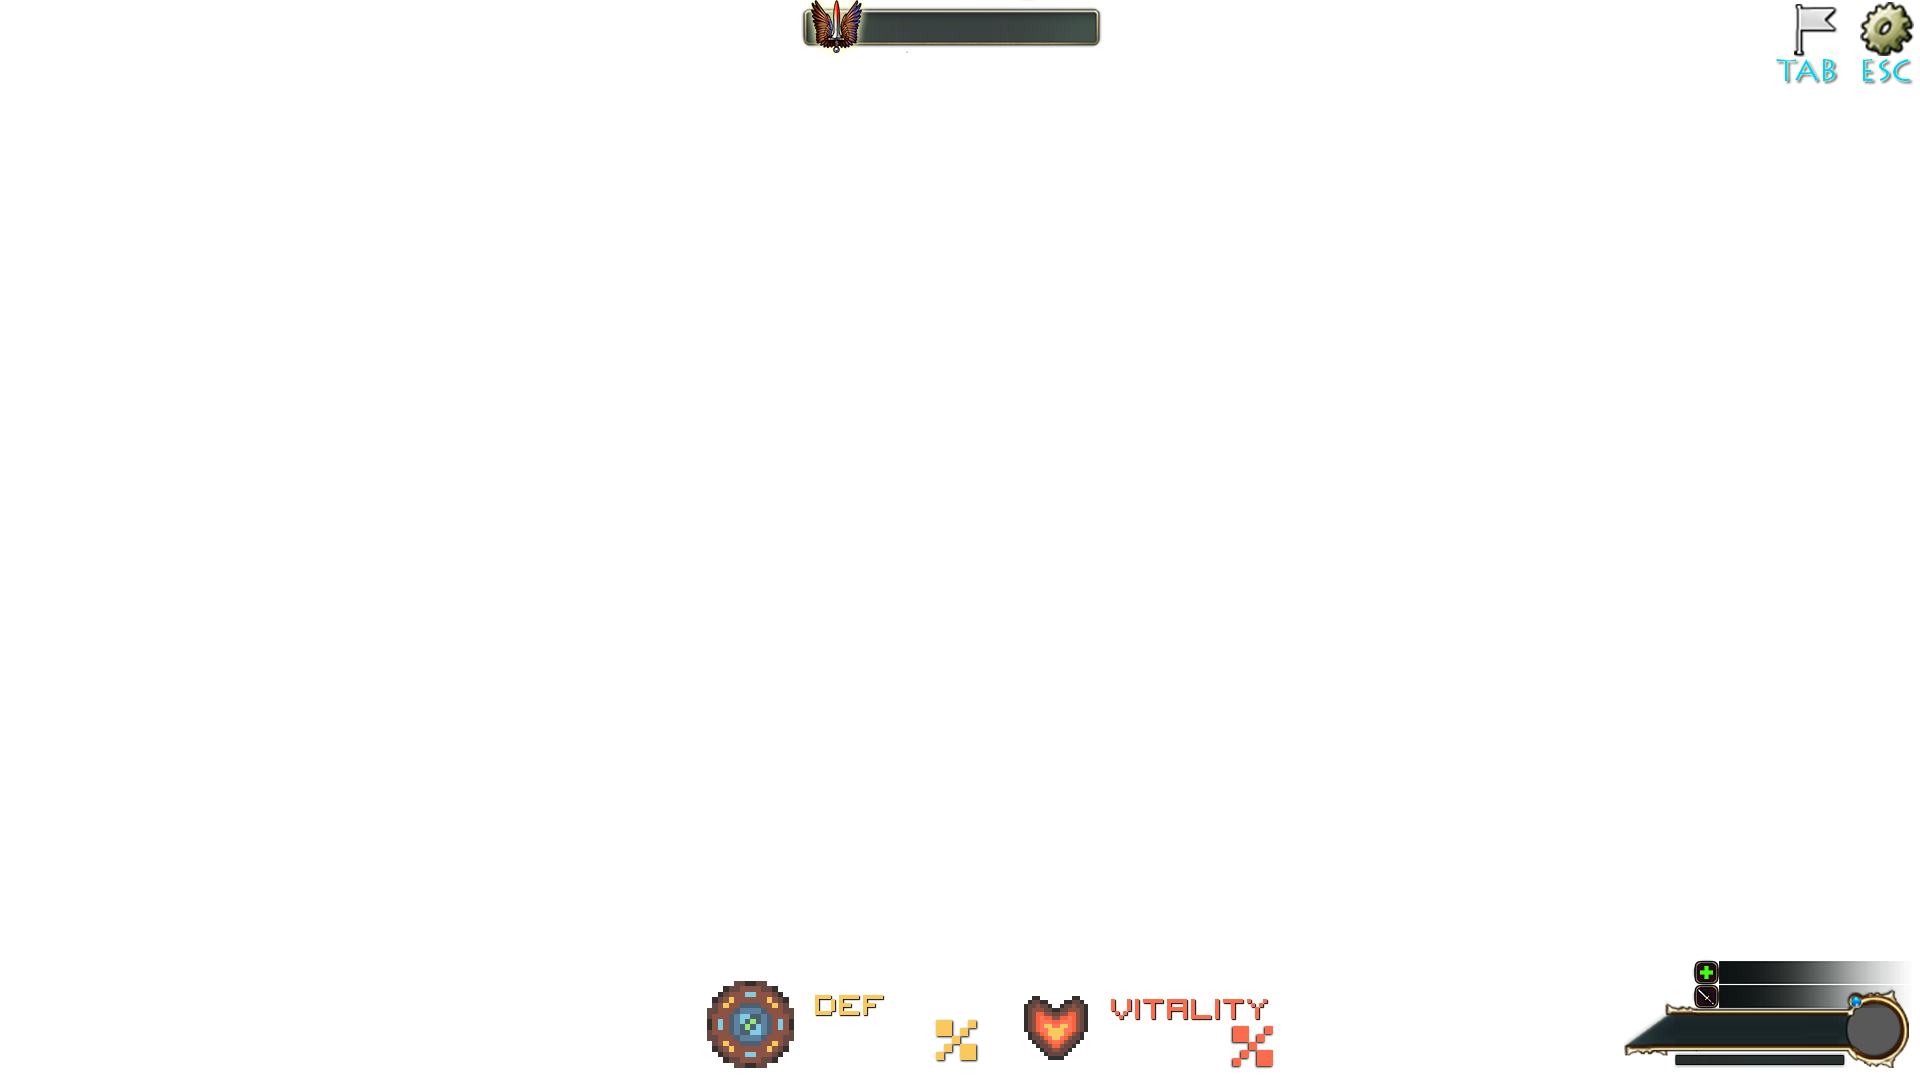
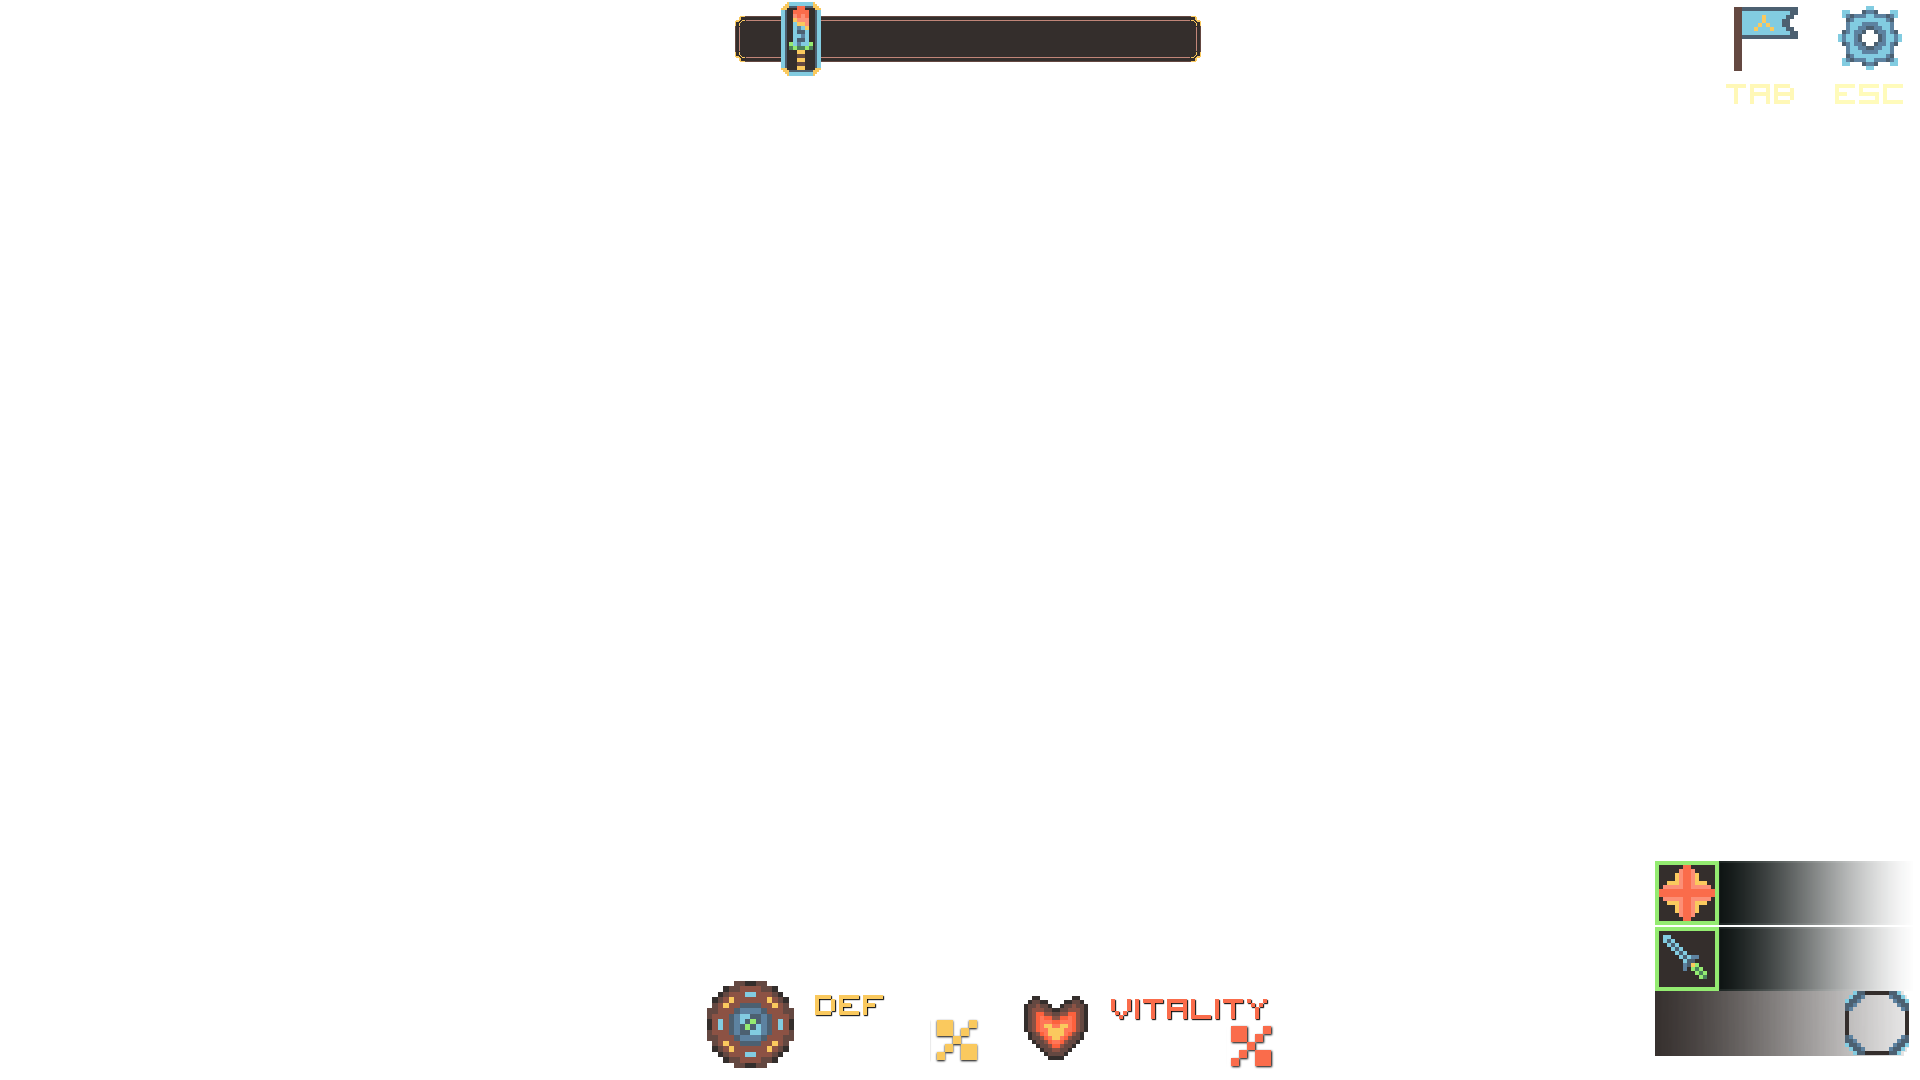
Update UI && Fixed Attack Bug

Changed region(s): [[0.8438, 0.7944, 1.0, 1.0], [0.375, 0.0, 0.625, 0.0917], [0.9062, 0.0, 1.0, 0.0917]]

diff --git a/Assets/Scripts/ItemsAndObjects/Weapon.cs b/Assets/Scripts/ItemsAndObjects/Weapon.cs
@@ -7,13 +7,16 @@ public class Weapon : NetworkBehaviour, IItem
 
     // Weapons
     public string name;
-    public int damage;
+    public int[] damage=new int[1];
+    [SyncVar]
+    public int CurrentLevel;
     public float attackCooldown;
     public float xRange;
     public float yRange;
     public float zRange;
     public Sprite icon;
     public string description;
+    
 
     //// Offsets for when the weapon is equipped
     //public Vector3 positionOffset;
@@ -30,6 +33,14 @@ public class Weapon : NetworkBehaviour, IItem
 
     public WeaponType currentWeaponType;
 
+    void Awake()
+    {
+        if(isServer)
+        {
+
+        }
+    }
+
     public void Start()
     {
         animator = GetComponent<Animator>();
@@ -37,12 +48,14 @@ public class Weapon : NetworkBehaviour, IItem
 
     public void PrimaryUse(GameObject owner)
     {
-        throw new System.NotImplementedException();
+        //throw new System.NotImplementedException();
+        return;
     }
 
     public void SecondaryUse()
     {
-        throw new System.NotImplementedException();
+        //throw new System.NotImplementedException();
+        return;
     }
 
     public void OnPickup(GameObject player)
@@ -79,6 +92,7 @@ public class Weapon : NetworkBehaviour, IItem
         gameObject.GetComponent<MeshRenderer>().enabled = true;
     }
 
+    [Command]
     public void CmdMoveToPoint(Vector3 target)
     {
         if (!isServer)
@@ -96,4 +110,14 @@ public class Weapon : NetworkBehaviour, IItem
         return description;
     }
 
+    [Command]
+    public void CmdRandomWeaponLevel()
+    {
+        CurrentLevel = Random.Range(0, damage.Length - 1);
+    }
+
+    public int GetAttack()
+    {
+        return damage[CurrentLevel];
+    }
 }

diff --git a/Assets/Scripts/PlayerMechanics/AttackController.cs b/Assets/Scripts/PlayerMechanics/AttackController.cs
@@ -69,14 +69,18 @@ public class AttackController : NetworkBehaviour
             //attackCollider.damage = currentWeapon.damage;
 
 
-            attack = (AttackCollider)Instantiate(
+            /*attack = (AttackCollider)Instantiate(
                     attackCollider,
                     transform.position - Camera.main.transform.forward * -2,
-                    Camera.main.transform.rotation);
+                    Camera.main.transform.rotation);*/
+            attack = (AttackCollider)Instantiate(
+                    attackCollider,
+                    transform.position - GetComponentInParent<NetworkedPlayer>().fpsCamera.transform.forward * -2,
+                    GetComponentInParent<NetworkedPlayer>().fpsCamera.transform.rotation);
 
             attack.parentNetId = netId;
             attack.transform.parent = transform;
-            attack.damage = currentWeapon.damage;
+            attack.damage = currentWeapon.GetAttack();
             attack.transform.localScale = new Vector3(currentWeapon.xRange, currentWeapon.yRange, currentWeapon.zRange);
             Physics.IgnoreCollision(attack.GetComponent<Collider>(), transform.root.GetComponent<Collider>());
 

diff --git a/Assets/Scripts/ItemsAndObjects/Amror.cs b/Assets/Scripts/ItemsAndObjects/Amror.cs
@@ -6,11 +6,21 @@ public class Amror : NetworkBehaviour, IItem
 {
     // Amrors
     public string name;
-    public int defense;
+    public int[] defense;
+    [SyncVar]
+    public int CurrentLevel;
     public int maxDurability;
     public Sprite icon;
     public string description;
     //public Sprite icon;
+
+    void Awake()
+    {
+        if(isServer)
+        {
+            CmdRandomAmrorLevel();
+        }
+    }
 
     public enum AmrorType
     {
@@ -89,5 +99,16 @@ public class Amror : NetworkBehaviour, IItem
         if (!isServer)
             return;
         maxDurability = amount;
+    }
+
+    [Command]
+    public void CmdRandomAmrorLevel()
+    {
+        CurrentLevel = Random.Range(0, defense.Length - 1);
+    }
+
+    public int GetDefense()
+    {
+        return defense[CurrentLevel];
     }
 }

diff --git a/Assets/Scripts/PlayerMechanics/BowAndArrow.cs b/Assets/Scripts/PlayerMechanics/BowAndArrow.cs
@@ -94,7 +94,7 @@ public class BowAndArrow : NetworkBehaviour
                     
                 }
                 arrow.parentNetId = netId;
-                arrow.SetDamage(ac.currentWeapon.damage);
+                arrow.SetDamage(ac.currentWeapon.GetAttack());
                 Destroy(arrow.gameObject, 10);
 
 
@@ -133,7 +133,7 @@ public class BowAndArrow : NetworkBehaviour
 
         Arrow arrow = (Arrow)Instantiate(arrowPrefab, transform.position - transform.forward * -2, Camera.main.transform.rotation);
         arrow.parentNetId = netId;
-        arrow.SetDamage(ac.currentWeapon.damage);
+        arrow.SetDamage(ac.currentWeapon.GetAttack());
         Destroy(arrow.gameObject, 10);
 
 

diff --git a/Assets/Scripts/PlayerMechanics/Defense.cs b/Assets/Scripts/PlayerMechanics/Defense.cs
@@ -38,10 +38,10 @@ public class Defense : NetworkBehaviour {
         int baseamount = 0;
 
         //amror check
-        if (amount >= amror.defense)
+        if (amount >= amror.GetDefense())
         {
-            currentAmror -= amror.defense;
-            baseamount = amror.defense;
+            currentAmror -= amror.GetDefense();
+            baseamount = amror.GetDefense();
         }
         else
         {

diff --git a/Assets/Scripts/Kroulis Scripts/MainGame/LootBoxFullControl.cs b/Assets/Scripts/Kroulis Scripts/MainGame/LootBoxFullControl.cs
@@ -40,6 +40,11 @@ namespace Kroulis.UI.MainGame
                     CurrentChestObj.removeItem(CurrentChestObj.items[CurrentSelectID]);
                 }
             }
+
+            if(Input.GetKeyDown(KeyCode.Escape))
+            {
+                gameObject.SetActive(false);
+            }
         }
 
         public void UpdateItems(Chest chest_object)
